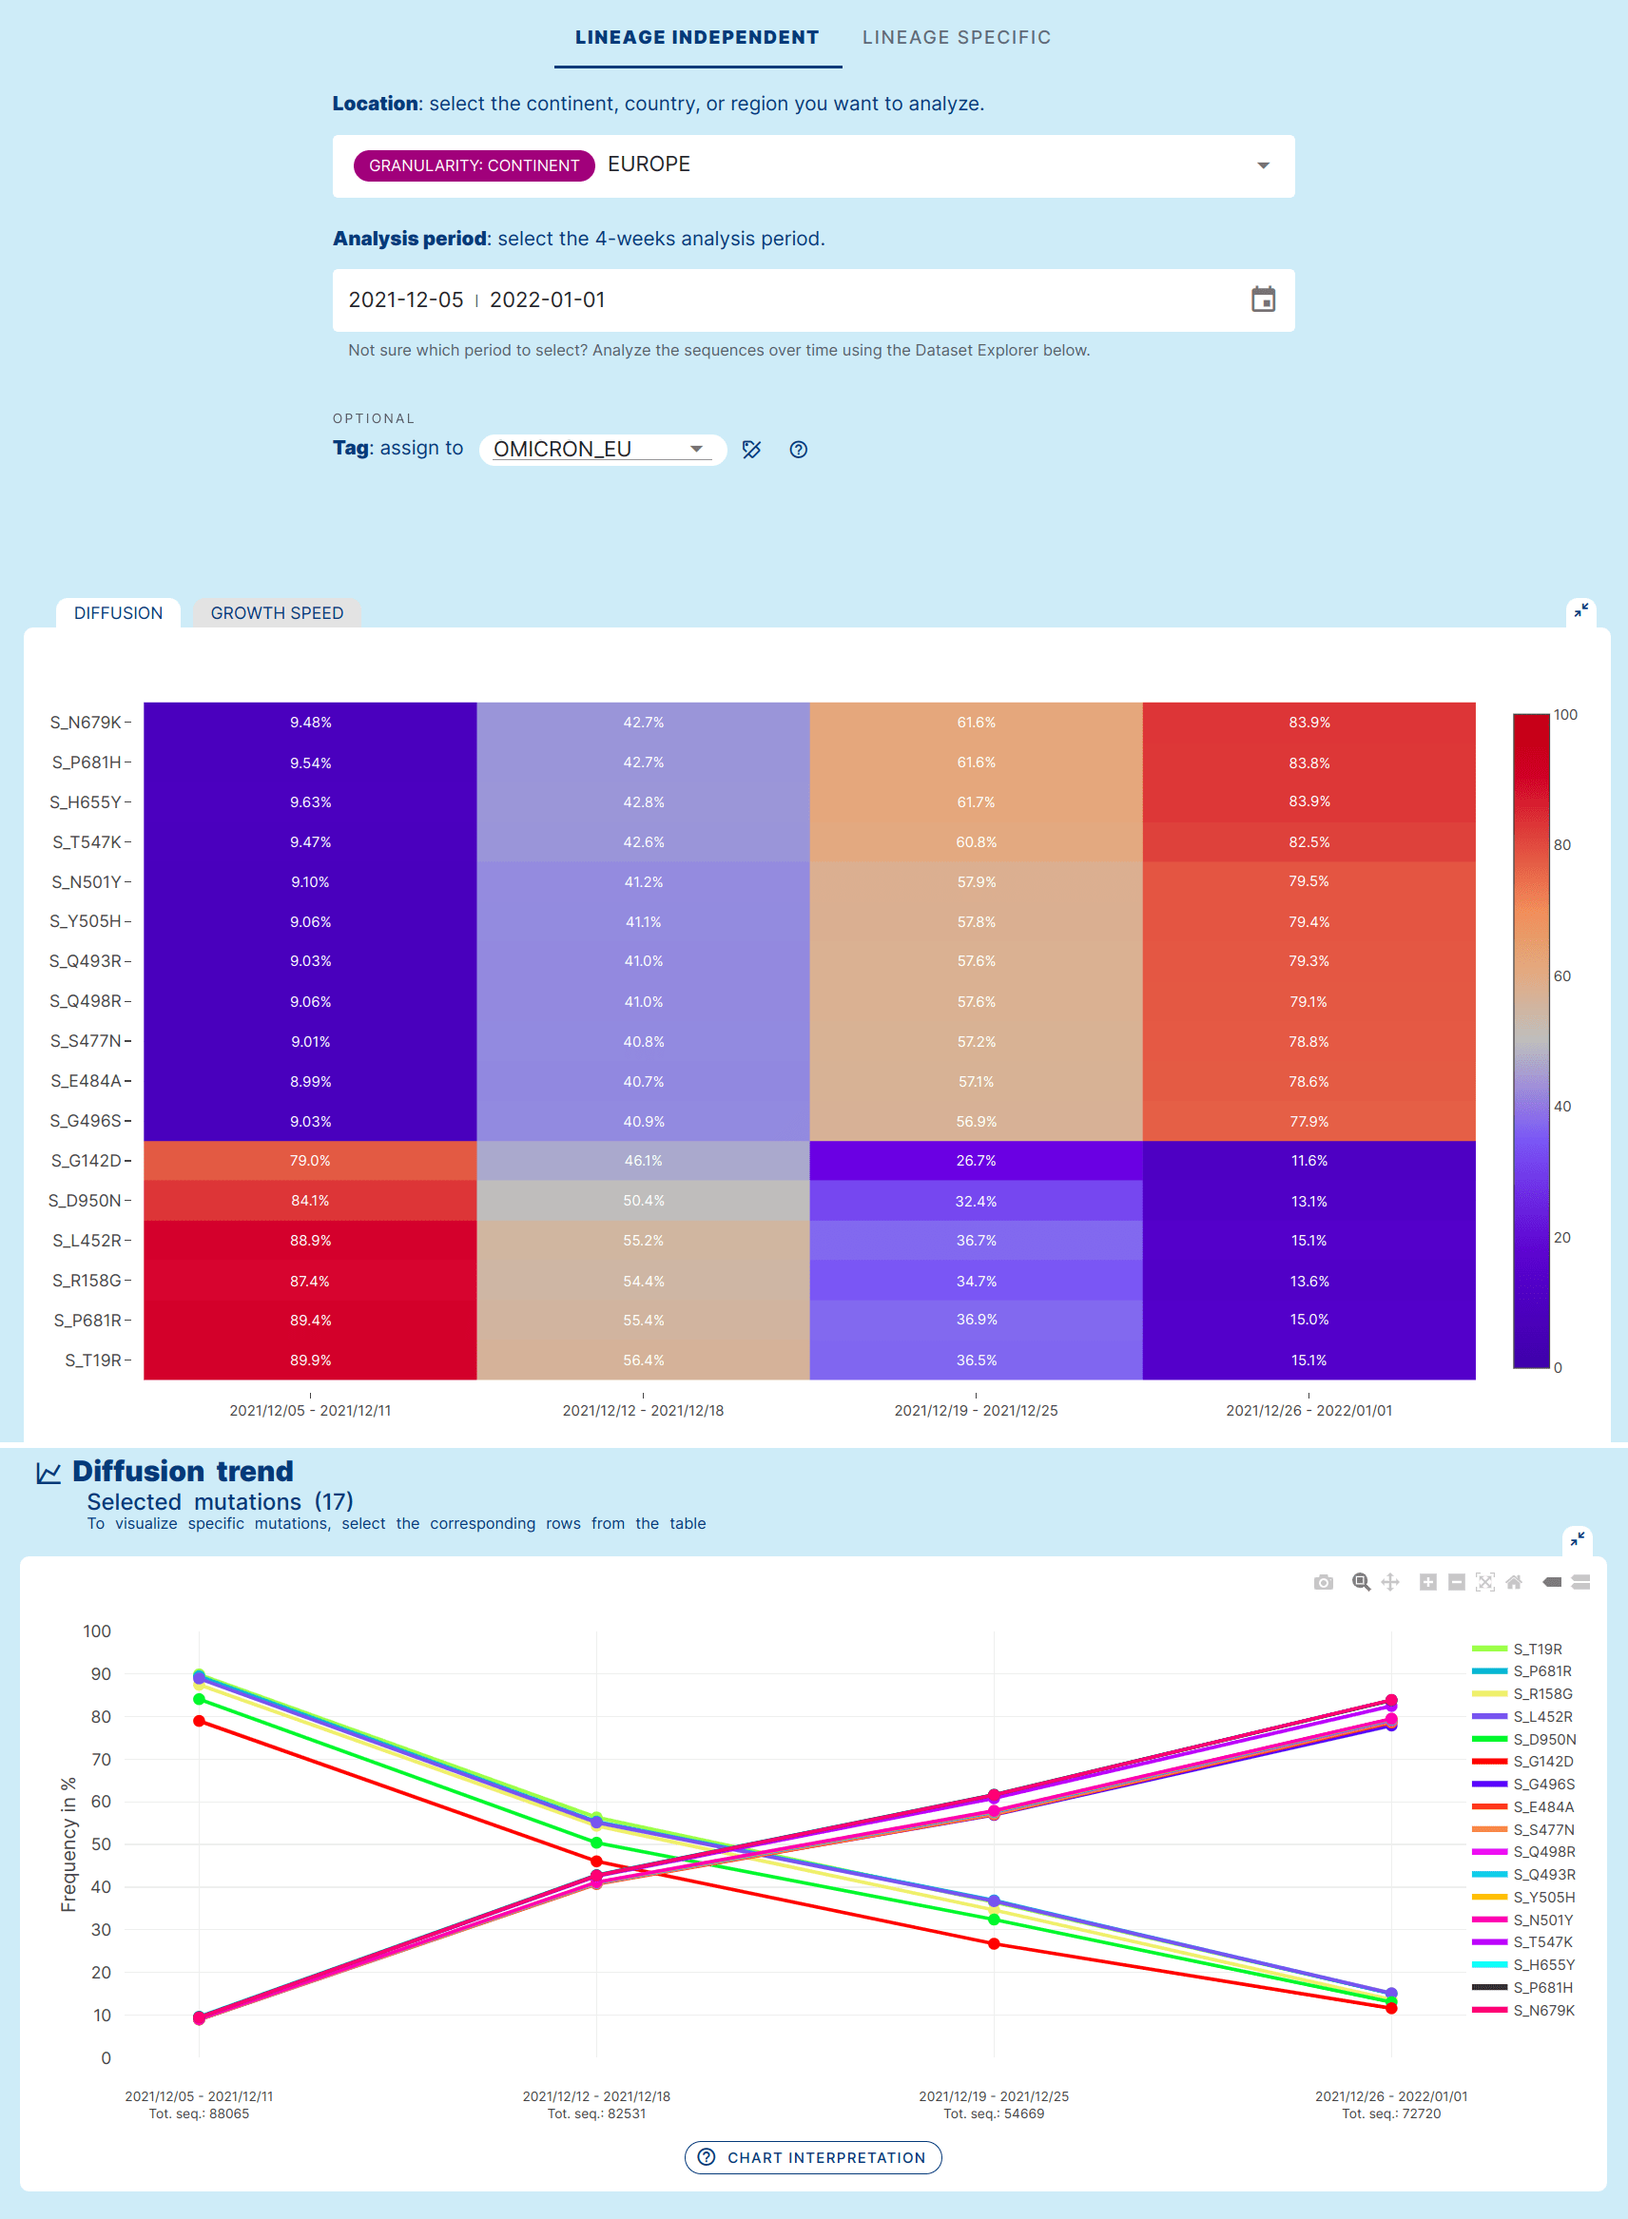
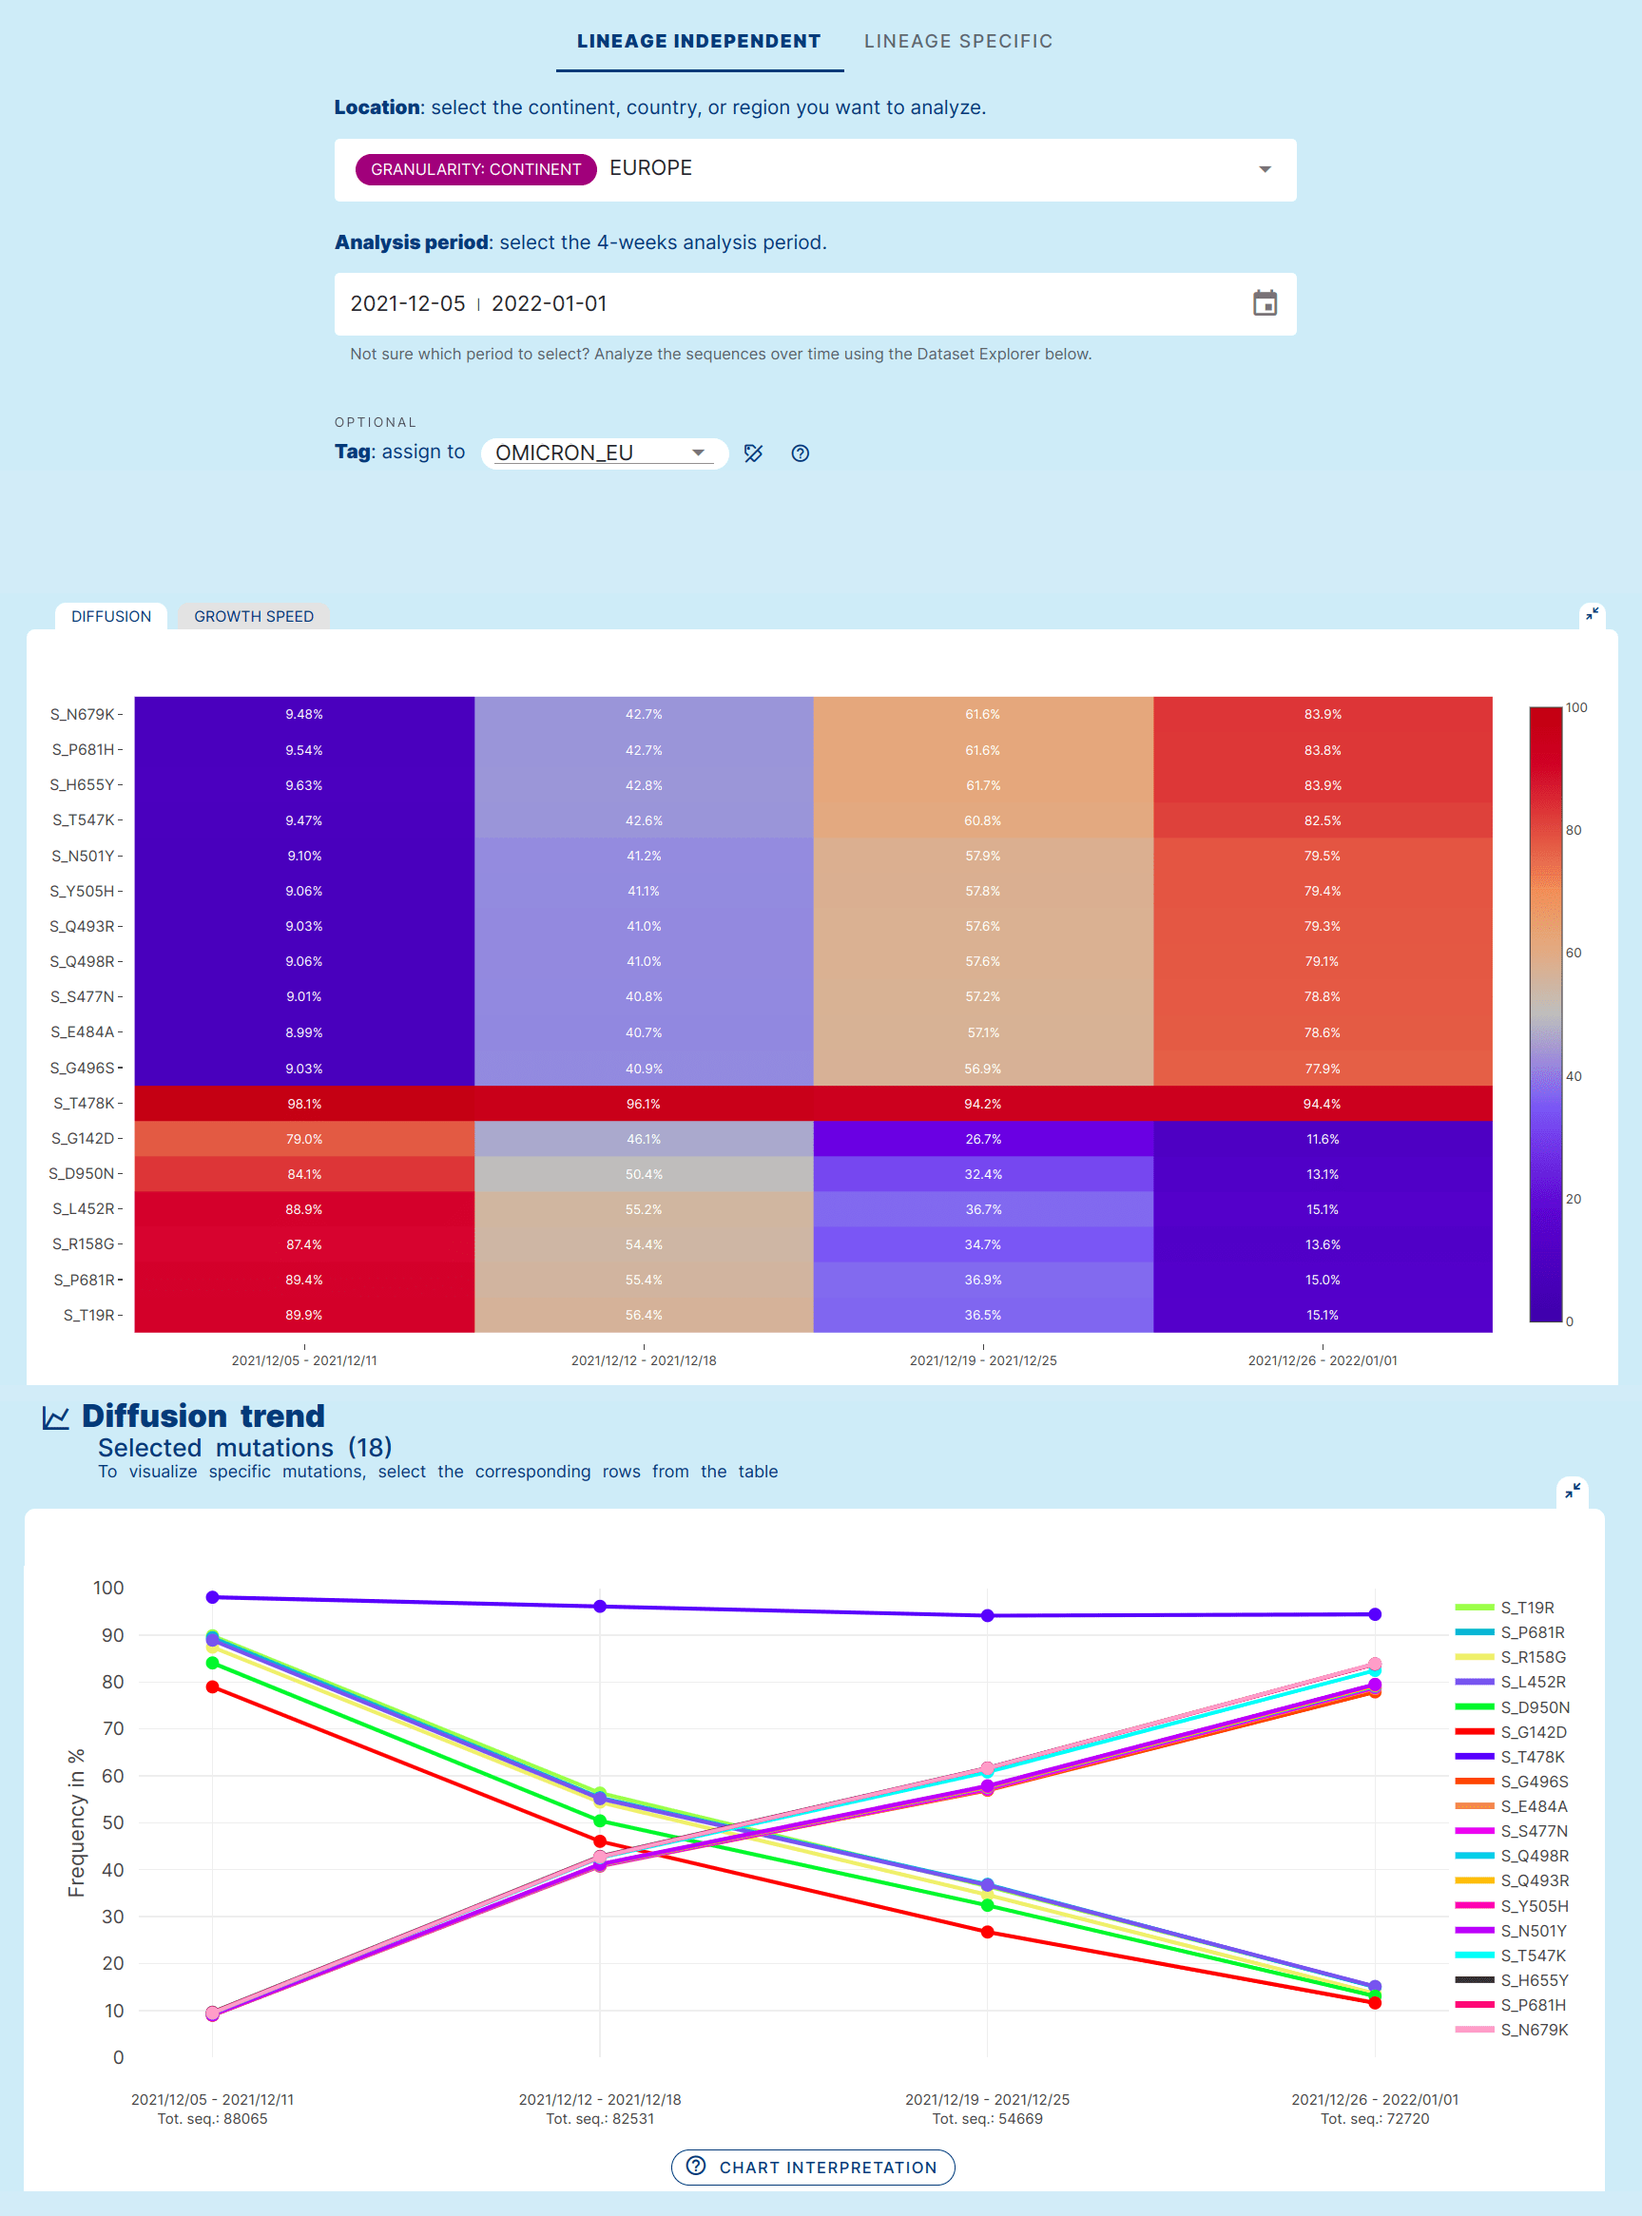
Multiple fixes to docs

diff --git a/frontend/src/components/guides/tool/lin-specific/uc/LinSpecUseCase2.vue b/frontend/src/components/guides/tool/lin-specific/uc/LinSpecUseCase2.vue
@@ -38,14 +38,14 @@
 
     <p class='mt-5'>
       The <b>Mutation Table</b> shows a clear increase in the prevalence of Spike R346T in
-      sequences assigned to BA.5.2 <i>(7% to 16%)</i> in the selected interval of time.
-      Interestingly a more moderate relative increase of ORF1b_T1050N, from 77% to 82% is also observed.
+      sequences assigned to BA.5.2 <i>(6.8% to 16%)</i> in the selected interval of time.
+      Interestingly a more moderate relative increase of ORF1b_T1050N, from 77.6% to 82.3% is also observed.
     </p>
     <pic :src='table'/>
 
     <p class='mt-5'>
       This pattern is clearly illustrated by the “Growth speed” Diffusion heatmap, and by the matched
-      Log2 odd-ratio diffusion plot, where a more than 3 fold increase in the prevalence of Spike: R346T is recovered.
+      Log2 odd-ratio diffusion plot, where a more than 2-fold increase in the prevalence of S_R346T is recovered.
     </p>
 
     <div class="f_tertiary with-borders">

diff --git a/frontend/src/store/examples.js b/frontend/src/store/examples.js
@@ -24,7 +24,7 @@ export const examples = [
         intro: "Emergence of sub-lineage BA.5.2.39 in North America in September-October 2022",
         granularity: "continent",
         type: "ls",
-        url: "cerilab.deib.polimi.it/variant_hunter/linkTo?type=ls&locationName=North%20America&date=2022-10-31&lineages=BA.5.2",
+        url: "cerilab.deib.polimi.it/variant_hunter/linkTo?type=ls&locationName=North%20America&date=2022-10-23&lineages=BA.5.2",
     },
     {
         id: 3,

diff --git a/frontend/src/components/guides/tool/lin-independent/uc/LinIndUseCase2.vue b/frontend/src/components/guides/tool/lin-independent/uc/LinIndUseCase2.vue
@@ -21,6 +21,7 @@
       <span class='monospaced'>(G142D, D950N, L452R, R158G, P681R, T19R)</span>
       and a concomitant and striking <i>increase</i> of amino acid changes characteristic of the
       <b>Omicron VOC</b><sup>*</sup> of SARS-CoV-2 is observed both in <i>Europe</i> and <i>North America</i>.
+      Interestingly, the prevalence of T478K, an amino acid change shared by both VOCs, is only marginally affected.
     </p>
 
     <p>
